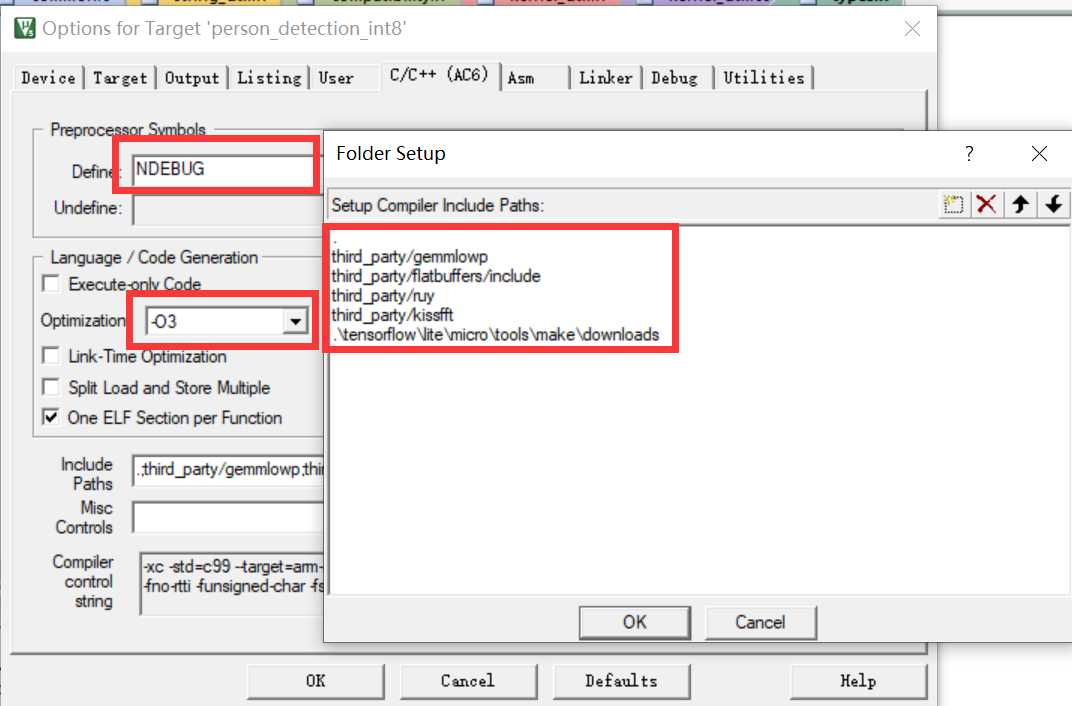
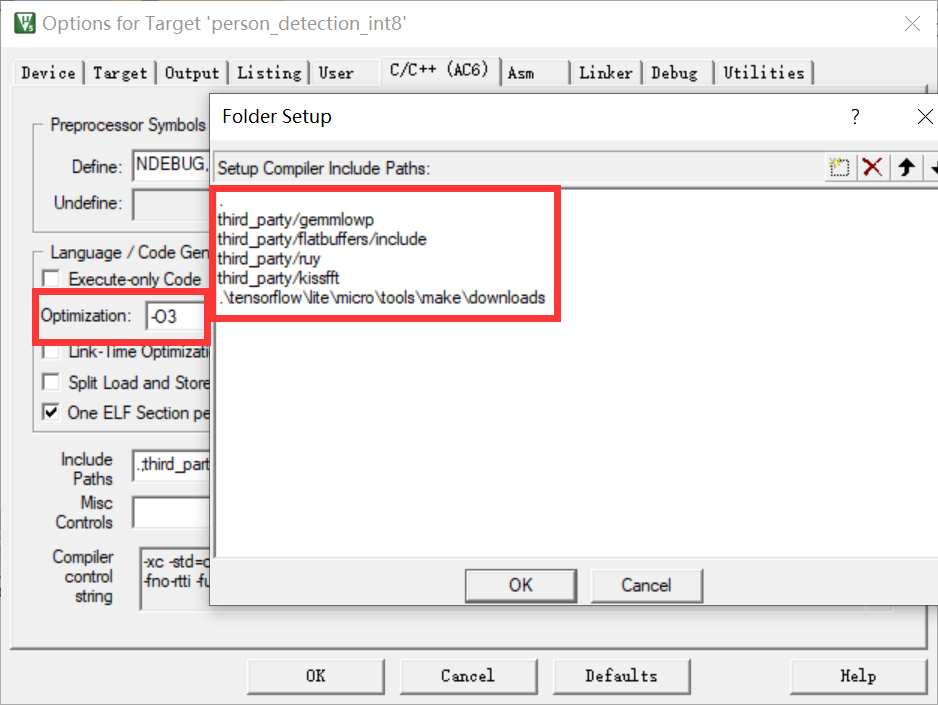
修复图片问题

Changed region(s): [[0.0, 0.0936, 1.0, 1.0], [0.0, 0.0, 1.0, 0.0624]]

diff --git a/components/ai/tflite_micro/TFlite_Micro_Component_User_Guide.md b/components/ai/tflite_micro/TFlite_Micro_Component_User_Guide.md
@@ -321,7 +321,7 @@ make -f tensorflow/lite/micro/tools/make/Makefile generate_projects
 <img src="image/编译目标为.lib.png" width=80% />
 </div>
 
-最后配置有关的宏、包含的文件路径和优化等级：
+最后包含的文件路径和优化等级，宏等：
 
 <div align=center>
 <img src="image/配置include和优化等级等.png" width=80% />
